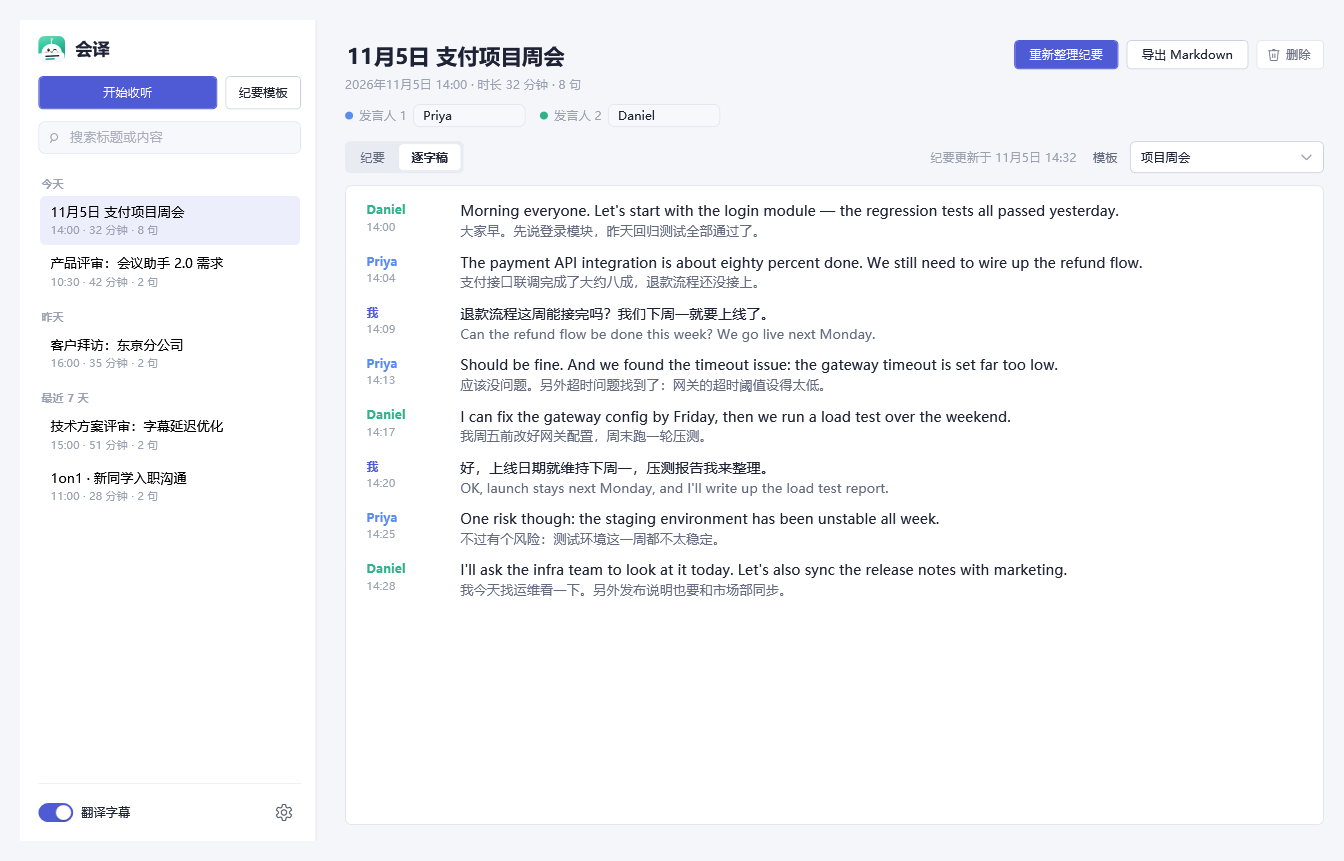
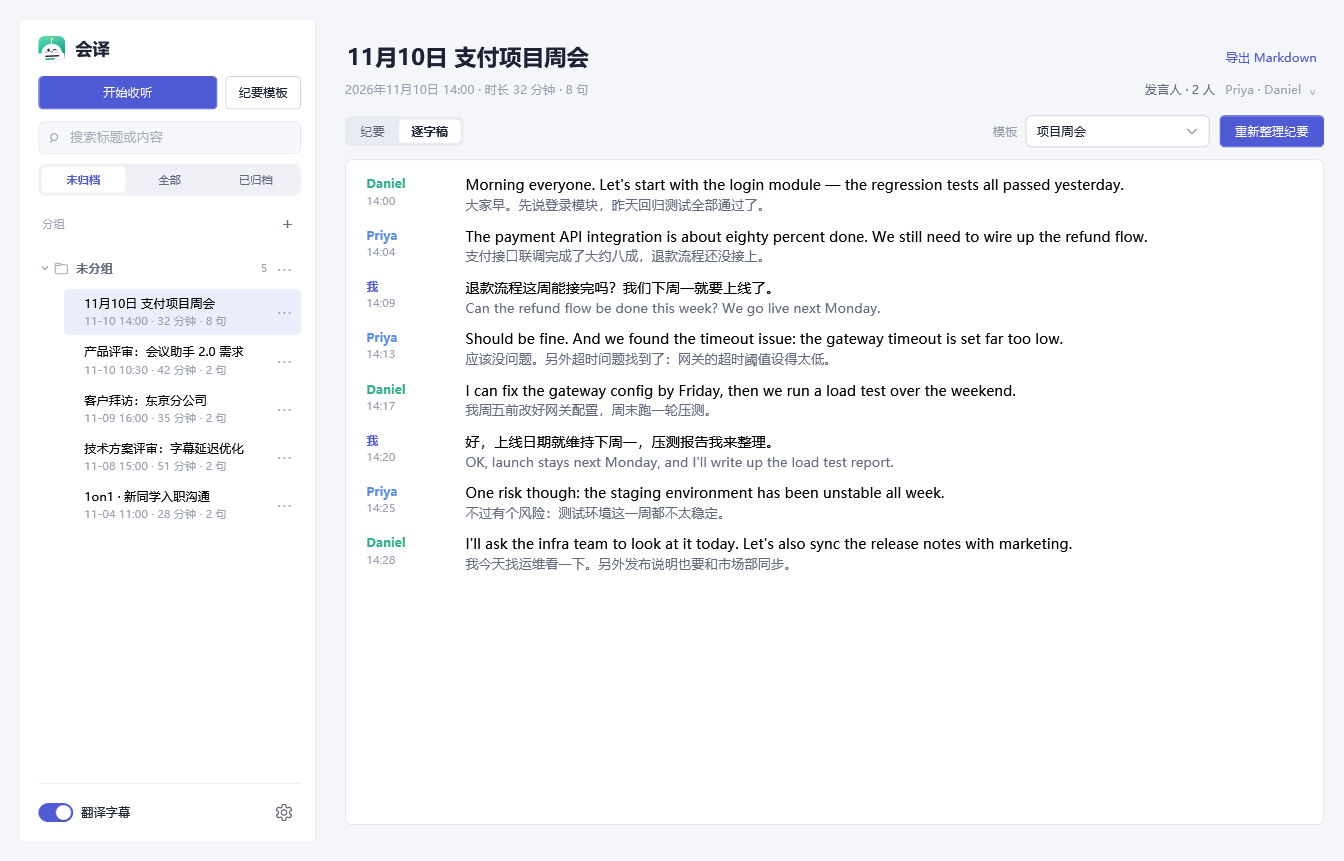
docs: 更新会议记录功能说明与界面截图

diff --git a/README.md b/README.md
@@ -67,7 +67,15 @@
 
 ### 开完会：纪要和逐字稿
 
-每场会议自动存一份记录，按日期分组、可以搜索。纪要里的时间都是**真实时间**：议题标会上的钟点，「周五前」「下周一」会换算成具体日期；待办事项带负责人和截止日期，可以一键导出 Markdown。
+每场会议自动存一份记录，直接列在所属分组下面，可以搜索。纪要里的时间都是**真实时间**：议题标会上的钟点，「周五前」「下周一」会换算成具体日期；待办事项带负责人和截止日期，可以一键导出 Markdown。
+
+纪要和逐字稿支持按段拖选文字、复制。左侧搜索框同时搜索标题、纪要、原文和译文，自动切换页签、滚动到匹配位置并高亮；用上下箭头或 Enter / Shift+Enter 查看前后匹配。发言人区始终保持一行，点击「管理发言人」可搜索姓名、改名，人数多时名单独立滚动。
+
+左侧按「分组 → 会议」展示，点击分组箭头可展开或折叠。原先没有分组的历史会议自动放在「未分组」下面；自定义分组的「⋯」菜单可改名，空分组可以删除，含会议的分组需要先移出或删除会议（包括已归档会议）。「未分组」作为默认分组保留。
+
+会议的「⋯」及右键菜单支持移动分组、归档、恢复和删除。移动分组的子菜单里有「＋ 新建分组」，创建后会把会议移入新组，左侧分组标题旁的「＋」可直接建组。「未归档 / 全部 / 已归档」切换查看和搜索范围，「全部」包含归档会议，恢复时会回到原分组。
+
+长会议自动分块生成纪要，每次请求最多 24,000 字符，最多两路并发，再分层合并为完整纪要。短会议沿用单次请求；分块或合并失败时保留原纪要。
 
 <p align="center">
   <img src="docs/images/notes-weekly.png" width="560" alt="完整的会议纪要：议题、进展、计划、风险、结论、待办、术语">
@@ -135,6 +143,7 @@
 | 内容 | 位置 |
 |---|---|
 | 设置、会议记录（`Sessions\<id>\session.json`，格式与 Cicada 相同） | `%APPDATA%\HuiYi` |
+| 自定义分组与归档状态 | `%APPDATA%\HuiYi\Sessions\organization.json` |
 | 各 AI 服务的 API key（每个服务一个文件，DPAPI 加密，只有当前 Windows 用户能解开） | `%APPDATA%\HuiYi\keys\` |
 | 识别模型、调试日志（日志里没有对话内容和 key） | `%LOCALAPPDATA%\HuiYi` |
 
